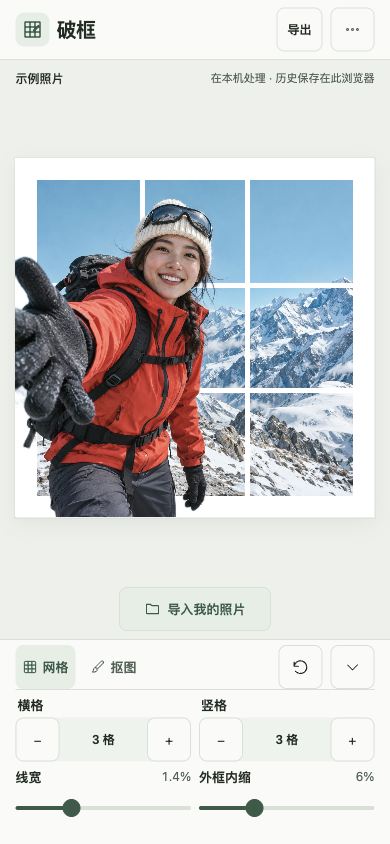
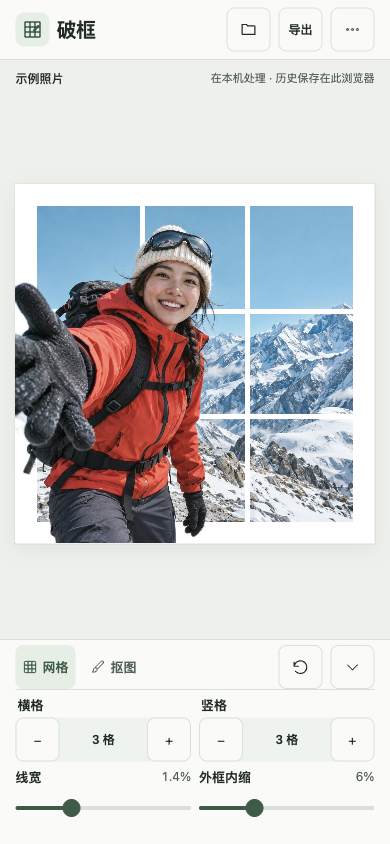
Keep photo import in the same toolbar position

diff --git a/src/app.js b/src/app.js
@@ -32,7 +32,7 @@ function historyButton() {
 }
 function header() {
   return '<header class="app-head"><div class="brand"><div class="mark">' + icon('logo') + '</div><h1>破框</h1></div>' +
-    '<div class="head-actions"><button type="button" class="btn header-import icon-only" data-action="open" aria-label="导入照片">' +
+    '<div class="head-actions"><button type="button" class="btn header-import" data-action="open" aria-label="导入照片">' +
     icon('folder') + '<span hidden>导入</span></button>' +
     '<button type="button" class="btn" data-action="export" disabled>导出</button>' +
     '<button type="button" class="btn icon-only more-button" popovertarget="editor-more" aria-controls="editor-more" aria-label="更多操作">' + icon('more') + '</button></div>' +
@@ -68,10 +68,7 @@ function preview() {
     button('restore', '撤销', null) + '</div>' +
     '<p id="mask-keys" class="sr-only">用方向键移动画笔，按空格落笔。按住 Shift 可加快移动。按 Tab 退出画布。</p>' +
     '<p class="sr-only" data-brush-position role="status"></p>' +
-    '<div class="empty-photo" data-empty>' + icon('folder') + button('open', '打开照片', null, 'primary') +
-    '<span class="subtle">可一次选择多张</span></div></div>' +
-    '<div class="sample-guide" data-sample-guide hidden>' +
-    button('open', '导入我的照片', 'folder', 'primary') + '</div>' +
+    '<p class="subtle" data-empty>从顶栏导入照片，可一次选择多张</p></div>' +
     '<section id="photo-history" class="history" aria-label="编辑历史" data-history hidden>' +
     '<button type="button" class="btn history-arrow" data-history-step="-1" aria-label="上一页历史" hidden>‹</button>' +
     '<div class="filmstrip" data-filmstrip></div>' +
@@ -534,11 +531,8 @@ function sync() {
   app.querySelector('.filename').hidden = !state.filename;
   app.querySelector('[data-photo-wrap]').hidden = !ready;
   app.querySelector('[data-empty]').hidden = ready || !!selectedID;
-  app.querySelector('[data-sample-guide]').hidden = !showingSample;
   const headerImport = app.querySelector('.header-import');
   const hasSelectedPhoto = Boolean(selectedID);
-  headerImport.hidden = showingSample;
-  headerImport.classList.toggle('icon-only', !hasSelectedPhoto);
   headerImport.querySelector('svg').toggleAttribute('hidden', hasSelectedPhoto);
   headerImport.querySelector('span').hidden = !hasSelectedPhoto;
   const message = workspaceMessage(ready);

diff --git a/src/style.css b/src/style.css
@@ -99,10 +99,6 @@ canvas[data-edit=true]:focus + .brush-cursor { display: block; }
 }
 .removal-recovery span { overflow: hidden; text-overflow: ellipsis; white-space: nowrap; }
 .removal-recovery .btn { min-height: 44px; min-width: 48px; padding: 0 9px; flex: none; }
-.sample-guide {
-  align-self: center; display: flex; flex-wrap: wrap; align-items: center; justify-content: center;
-  gap: 10px; color: var(--muted); font-size: 13px;
-}
 .inspector {
   min-height: 0; overflow-y: auto; display: flex; flex-direction: column;
   padding: 16px 20px; border-left: 1px solid var(--line);
@@ -163,7 +159,6 @@ dialog h2 { font-size: 21px; letter-spacing: -.04em; }
   flex: 1; min-height: 0; gap: 6px;
   padding: 5px max(8px, env(safe-area-inset-right)) 7px max(8px, env(safe-area-inset-left));
 }
-.mobile .sample-guide .btn { min-height: 44px; }
 .tool-head { display: flex; justify-content: space-between; gap: 12px; border-bottom: 1px solid var(--line); }
 .tool-switch { display: flex; gap: 17px; }
 .tool-switch button {
@@ -205,10 +200,6 @@ dialog h2 { font-size: 21px; letter-spacing: -.04em; }
   .btn { transition: none; }
 }
 
-.empty-photo {
-  display: grid; justify-items: center; gap: 12px; align-content: center;
-}
-.empty-photo > svg { width: 34px; height: 34px; color: var(--accent); }
 .history {
   display: flex; min-width: 0; align-items: center; gap: 10px;
   border-top: 1px solid var(--line); padding-top: 5px;

diff --git a/src/workbench.css b/src/workbench.css
@@ -57,6 +57,7 @@ body[data-workbench] .app-head {
   padding: max(5px, env(safe-area-inset-top)) max(var(--rail), env(safe-area-inset-right)) 5px max(var(--rail), env(safe-area-inset-left));
 }
 body[data-workbench] .head-actions { grid-column: 2/-1; justify-content: end; gap: var(--gap); }
+body[data-workbench] .head-actions .btn { width: var(--tap); padding-inline: 0; }
 body[data-workbench] :is(.head-actions .btn svg, .tool-head .btn.icon-only svg) { display: block; width: 17px; height: 17px; }
 body[data-workbench] .workstage {
   padding: var(--gap) var(--rail); gap: var(--gap);
@@ -75,8 +76,6 @@ body[data-workbench] .workstage {
 .workspace-meta .filename[hidden] + .workspace-status { grid-column: 1/-1; text-align: left; }
 
 body[data-workbench] .image-wrap { box-shadow: 0 6px 22px #23332b12, 0 0 0 1px #23332b16; }
-body[data-workbench] .sample-guide { gap: var(--gap); width: 100%; }
-body[data-workbench] .sample-guide .btn { min-width: 152px; }
 
 body[data-workbench] .inspector { padding-inline: var(--rail); padding-block-start: 5px; }
 body[data-workbench] .mobile .inspector { padding-bottom: max(5px, env(safe-area-inset-bottom)); }
